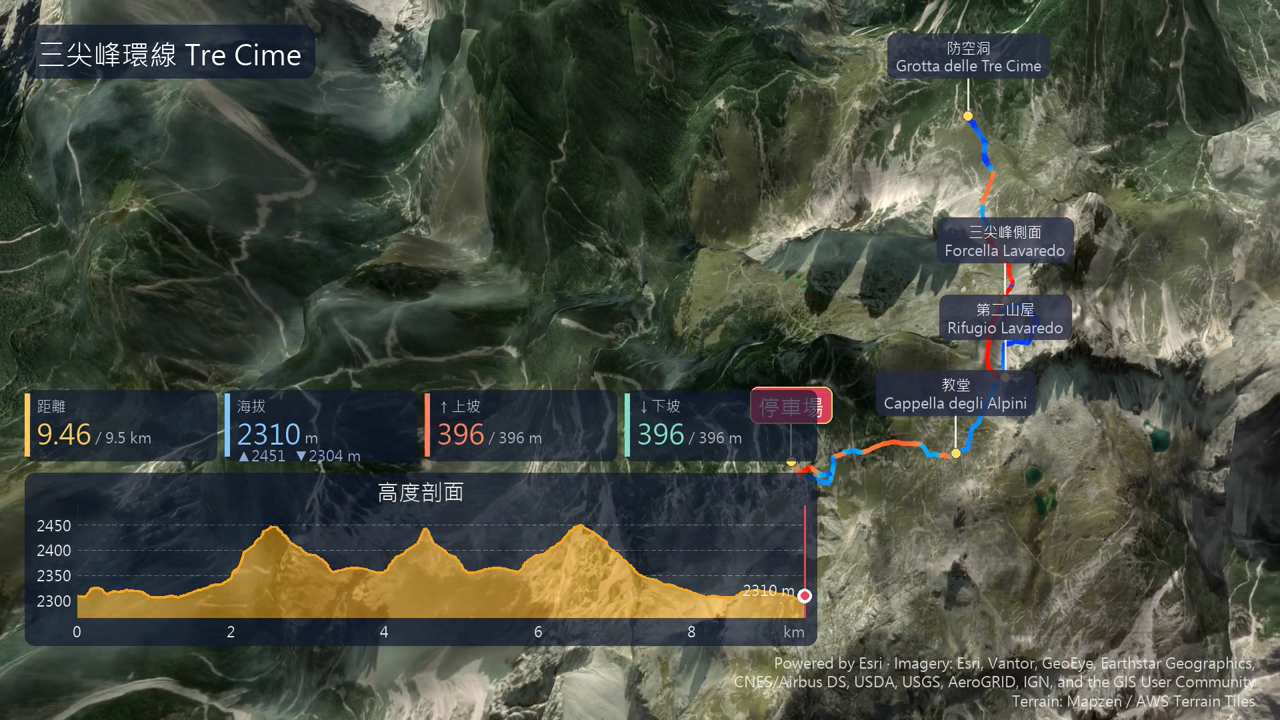
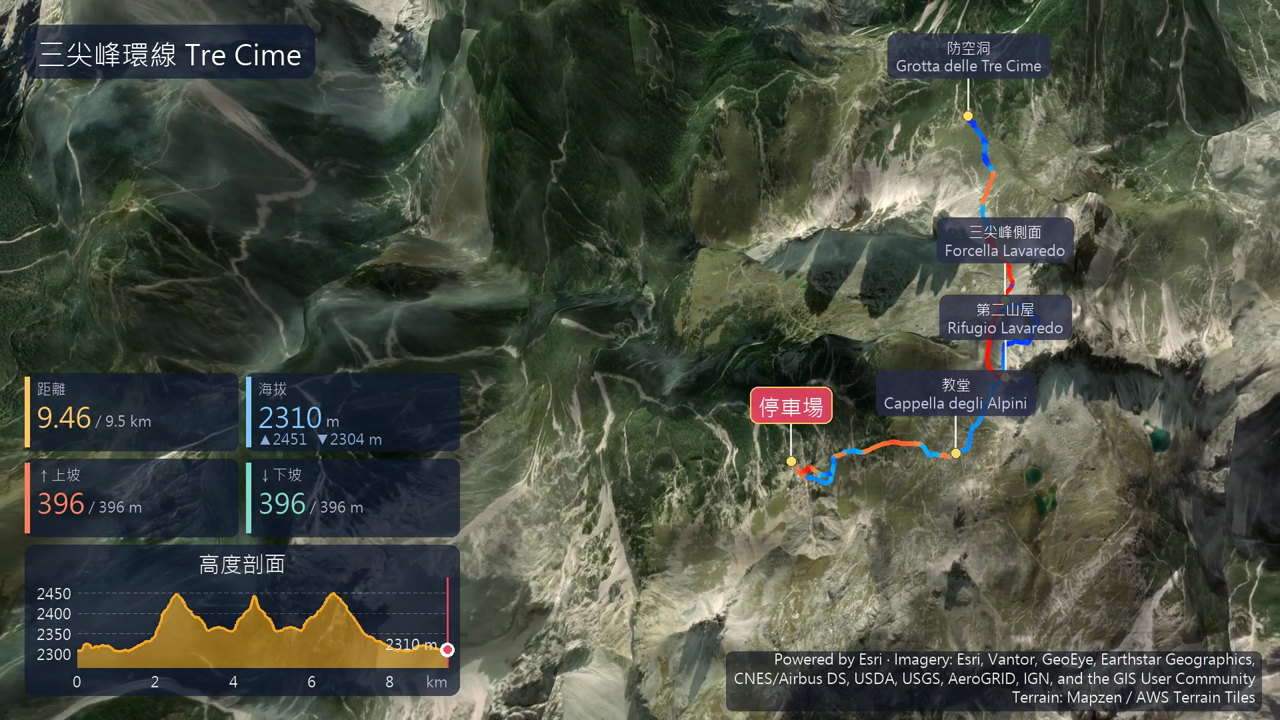
v2.0.2: compact 3D HUD (landscape: bottom-left block; portrait: numbers on top, profile at bottom), readable credit box, updated screenshots

Changed region(s): [[0.0, 0.5194, 1.0, 1.0]]

diff --git a/terrain3d.py b/terrain3d.py
@@ -690,20 +690,36 @@ def draw_hud(frame, data, idx, width, height, title, credit, prof):
     sc = min(width, height) / 720
     pad = int(min(width, height) * 0.035)
     land = width > height
-    right = width - pad if not land else pad + min(width - 2 * pad, int(height * 1.1))
     big, mid, sm = g.PIL_FONT_BIG, g.PIL_FONT, g.PIL_FONT_SM
 
     # 標題
     tw = dr.textlength(title, font=big)
-    dr.rounded_rectangle([pad, pad, pad + tw + pad, pad + big.size * 1.9], radius=int(12 * sc), fill=PANEL_RGBA)
+    t_bottom = pad + big.size * 1.9
+    dr.rounded_rectangle([pad, pad, pad + tw + pad, t_bottom], radius=int(12 * sc), fill=PANEL_RGBA)
     dr.text((pad * 1.5, pad + big.size * 0.35), title, font=big, fill=(255, 255, 255, 255))
 
-    # 版面：最下方來源標示 → 高度剖面 → 儀表板
     lh = sm.size * 1.3
-    py1 = height - pad * 0.7 - lh * len(credit)
-    py0 = py1 - (height * (0.24 if land else 0.17))
-    cell_h = big.size + sm.size * 2.9
-    y0 = py0 - pad * 0.5 - cell_h
+    gap = int(8 * sc)
+    cell_h = big.size + sm.size * 3.4
+    cells = []                                             # 4 格儀表板的位置 (x0, y0, 寬)
+    if land:
+        # 橫式：儀表板（2×2）＋高度剖面縮成左下角一塊（寬約 1/3，與 2D 橫式的左欄相近），畫面其餘留給 3D
+        bw = int(width * 0.34)
+        left, right = pad, pad + bw
+        py1 = height - pad
+        py0 = py1 - int(height * 0.21)
+        r2 = py0 - gap - cell_h
+        r1 = r2 - gap - cell_h
+        cw = (bw - gap) / 2
+        cells = [(left, r1, cw), (left + cw + gap, r1, cw), (left, r2, cw), (left + cw + gap, r2, cw)]
+    else:
+        # 直式（與 2D 直式相同的分配）：數字列在最上方（標題下），高度剖面在最下方，合計約 28% 高度，中間留給 3D
+        left, right = pad, width - pad
+        cw = ((right - left) - gap * 3) / 4
+        r1 = t_bottom + gap
+        cells = [(left + k * (cw + gap), r1, cw) for k in range(4)]
+        py1 = height - pad * 0.7 - lh * len(credit)
+        py0 = py1 - int(height * 0.20)
 
     # ── 儀表板：4 格，左側色條＋標籤＋彩色數字（2D 模板） ──
     i = int(idx)
@@ -712,17 +728,14 @@ def draw_hud(frame, data, idx, width, height, title, credit, prof):
              (f"{e[i]:.0f}", "m", f"▲{data['ele_max']:.0f}  ▼{data['ele_min']:.0f} m"),
              (f"{prof['gain'][i]:.0f}", f"/ {prof['gain'][-1]:.0f} m", None),
              (f"{prof['loss'][i]:.0f}", f"/ {prof['loss'][-1]:.0f} m", None)]
-    gap = int(8 * sc)
-    cw = ((right - pad) - gap * 3) / 4
-    for k, ((val, unit, sub), lab, col) in enumerate(zip(items, DASH_LABELS, DASH_COLORS)):
-        x0 = pad + k * (cw + gap)
-        dr.rounded_rectangle([x0, y0, x0 + cw, y0 + cell_h], radius=int(8 * sc), fill=PANEL_RGBA)
+    for ((val, unit, sub), lab, col, (x0, y0, cw_)) in zip(items, DASH_LABELS, DASH_COLORS, cells):
+        dr.rounded_rectangle([x0, y0, x0 + cw_, y0 + cell_h], radius=int(8 * sc), fill=PANEL_RGBA)
         dr.rectangle([x0, y0 + 4 * sc, x0 + max(3, 5 * sc), y0 + cell_h - 4 * sc], fill=col + (255,))
         tx = x0 + 12 * sc
         dr.text((tx, y0 + 6 * sc), lab, font=sm, fill=LABEL_COL + (255,))
         vy = y0 + 6 * sc + sm.size * 1.25
         fb = big
-        while dr.textlength(val, font=fb) + dr.textlength(unit, font=sm) + 18 * sc > cw and fb.size > 10:
+        while dr.textlength(val, font=fb) + dr.textlength(unit, font=sm) + 18 * sc > cw_ and fb.size > 10:
             fb = fb.font_variant(size=fb.size - 1)
         dr.text((tx, vy), val, font=fb, fill=col + (255,))
         vw = dr.textlength(val, font=fb)
@@ -777,12 +790,22 @@ def draw_hud(frame, data, idx, width, height, title, credit, prof):
     dr.text((lx, cy - sm.size * 1.1), lab, font=sm, fill=TEXT_COL + (255,))
 
     # 來源標示
-    for k, line in enumerate(credit):
+    cmax = (width - 2 * pad) if not land else (width - right - 2 * pad)      # 橫式：放在右下角，不壓到左下的儀表板
+    cx1 = width - pad
+    cy_base = (py1 + pad * 0.35 + lh * len(credit)) if not land else (height - pad * 0.5)
+    lines = []
+    for line in credit:
         fnt = sm
-        while dr.textlength(line, font=fnt) > width - 2 * pad and fnt.size > 8:
+        while dr.textlength(line, font=fnt) > cmax and fnt.size > 8:
             fnt = fnt.font_variant(size=fnt.size - 1)
-        dr.text((width - pad, py1 + pad * 0.35 + lh * (k + 1) - lh * 0.25), line, font=fnt,
-                fill=(255, 255, 255, 200), anchor="rs")
+        lines.append((line, fnt, dr.textlength(line, font=fnt)))
+    bx0 = cx1 - max(w for _, _, w in lines) - 8 * sc
+    by1 = cy_base + 3 * sc
+    by0 = cy_base - lh * (len(credit) - 1) - lh * 0.95
+    dr.rounded_rectangle([bx0, by0, cx1 + 6 * sc, by1], radius=int(6 * sc), fill=(10, 15, 30, 150))   # 底色：亮色地形上也看得清楚
+    for k, (line, fnt, _) in enumerate(lines):
+        dr.text((cx1, cy_base - lh * (len(credit) - 1 - k) - lh * 0.25), line, font=fnt,
+                fill=(255, 255, 255, 235), anchor="rs")
     return np.asarray(Image.alpha_composite(im, ov).convert("RGB"))
 
 

diff --git a/gpx_video_app.py b/gpx_video_app.py
@@ -25,7 +25,7 @@ else:
     BASE_DIR = os.path.dirname(os.path.abspath(__file__))
 sys.path.insert(0, BASE_DIR)
 
-APP_VERSION = "2.0.1"
+APP_VERSION = "2.0.2"
 RELEASE_DATE = "2026/10/21"
 
 BG, PANEL, ACCENT = "#1a1a2e", "#16213e", "#e94560"

diff --git a/README.md b/README.md
@@ -1,4 +1,4 @@
-# HikeReel v2.0.1
+# HikeReel v2.0.2
 
 **HikeReel** 把 GPX 健行軌跡轉換成動態影片，適合上傳 YouTube Shorts、Instagram Reels 或 YouTube。
 
@@ -12,10 +12,10 @@
 
 **[➡ 前往下載頁面（Releases）](https://github.com/skypray73/HikeReel/releases/latest)**
 
-下載 `HikeReel_v2.0.1_Windows.zip`，**整個解壓縮**後執行資料夾裡的 `HikeReel.exe`：
+下載 `HikeReel_v2.0.2_Windows.zip`，**整個解壓縮**後執行資料夾裡的 `HikeReel.exe`：
 
 ```
-HikeReel_v2.0.1/
+HikeReel_v2.0.2/
 ├─ HikeReel.exe         主程式
 ├─ _internal/           程式需要的套件（不要刪除或移動）
 ├─ locationGPS.xlsx     地標資料庫範本
@@ -23,7 +23,7 @@ HikeReel_v2.0.1/
 └─ README.txt           簡易說明
 ```
 
-> - 請把整個資料夾放在**純英文路徑**（例如 `D:\HikeReel_v2.0.1`）。
+> - 請把整個資料夾放在**純英文路徑**（例如 `D:\HikeReel_v2.0.2`）。
 > - 建議另外安裝 ffmpeg（見下方說明），影片品質與相容性較好。
 > - 執行檔沒有程式碼簽章，Windows SmartScreen 可能出現警告，請按「其他資訊」→「仍要執行」。
 
@@ -45,6 +45,9 @@ HikeReel_v2.0.1/
 
 ### 3D 結尾總覽（抵達終點後拉遠，呈現整段軌跡與最終數據）
 ![3D ending](screenshots/3d_ending.png)
+
+### 3D 直式（手機 / Shorts）：數字在最上、高度剖面在最下，中間留給畫面
+<img src="screenshots/3d_portrait.png" width="360" alt="3D portrait">
 
 ---
 
@@ -95,7 +98,7 @@ HikeReel_v2.0.1/
 - 地形高程來自 [AWS Terrain Tiles](https://registry.opendata.aws/terrain-tiles/)，主地形外再加一圈約 4 倍範圍的低解析地形，遠處逐漸融入天空。
 - 鏡頭跟著平滑過的路線、轉向速度有上限（每秒 20°），急轉彎與之字形路段也不會晃動。
 - 開場從整條路線的總覽降到小人身後；結尾在小人抵達終點、停下後，鏡頭才慢慢拉遠約 4 秒（`--outro-seconds`），呈現整段軌跡與最終數據。
-- 儀表板（距離 / 海拔 / 上坡 / 下坡）與高度剖面沿用 2D 模式的配色與版型，底色為半透明。
+- 儀表板（距離 / 海拔 / 上坡 / 下坡）與高度剖面沿用 2D 模式的配色與版型，底色為半透明。版面也依 2D 的比例配置：**橫式**縮成左下角一塊（約 1/3 寬）；**直式**數字列在最上方、高度剖面在最底部，合計約 28% 高度，中間留給 3D 畫面。
 - 需要 OpenGL（一般顯示卡 / 內顯即可），使用 PyVista / VTK 離線渲染。
 - 公司或學校網路若有 SSL 檢查，程式會自動改用 Windows 系統憑證（truststore）。
 - 不使用 Google Earth / Google 地圖的圖資（授權不允許）。
